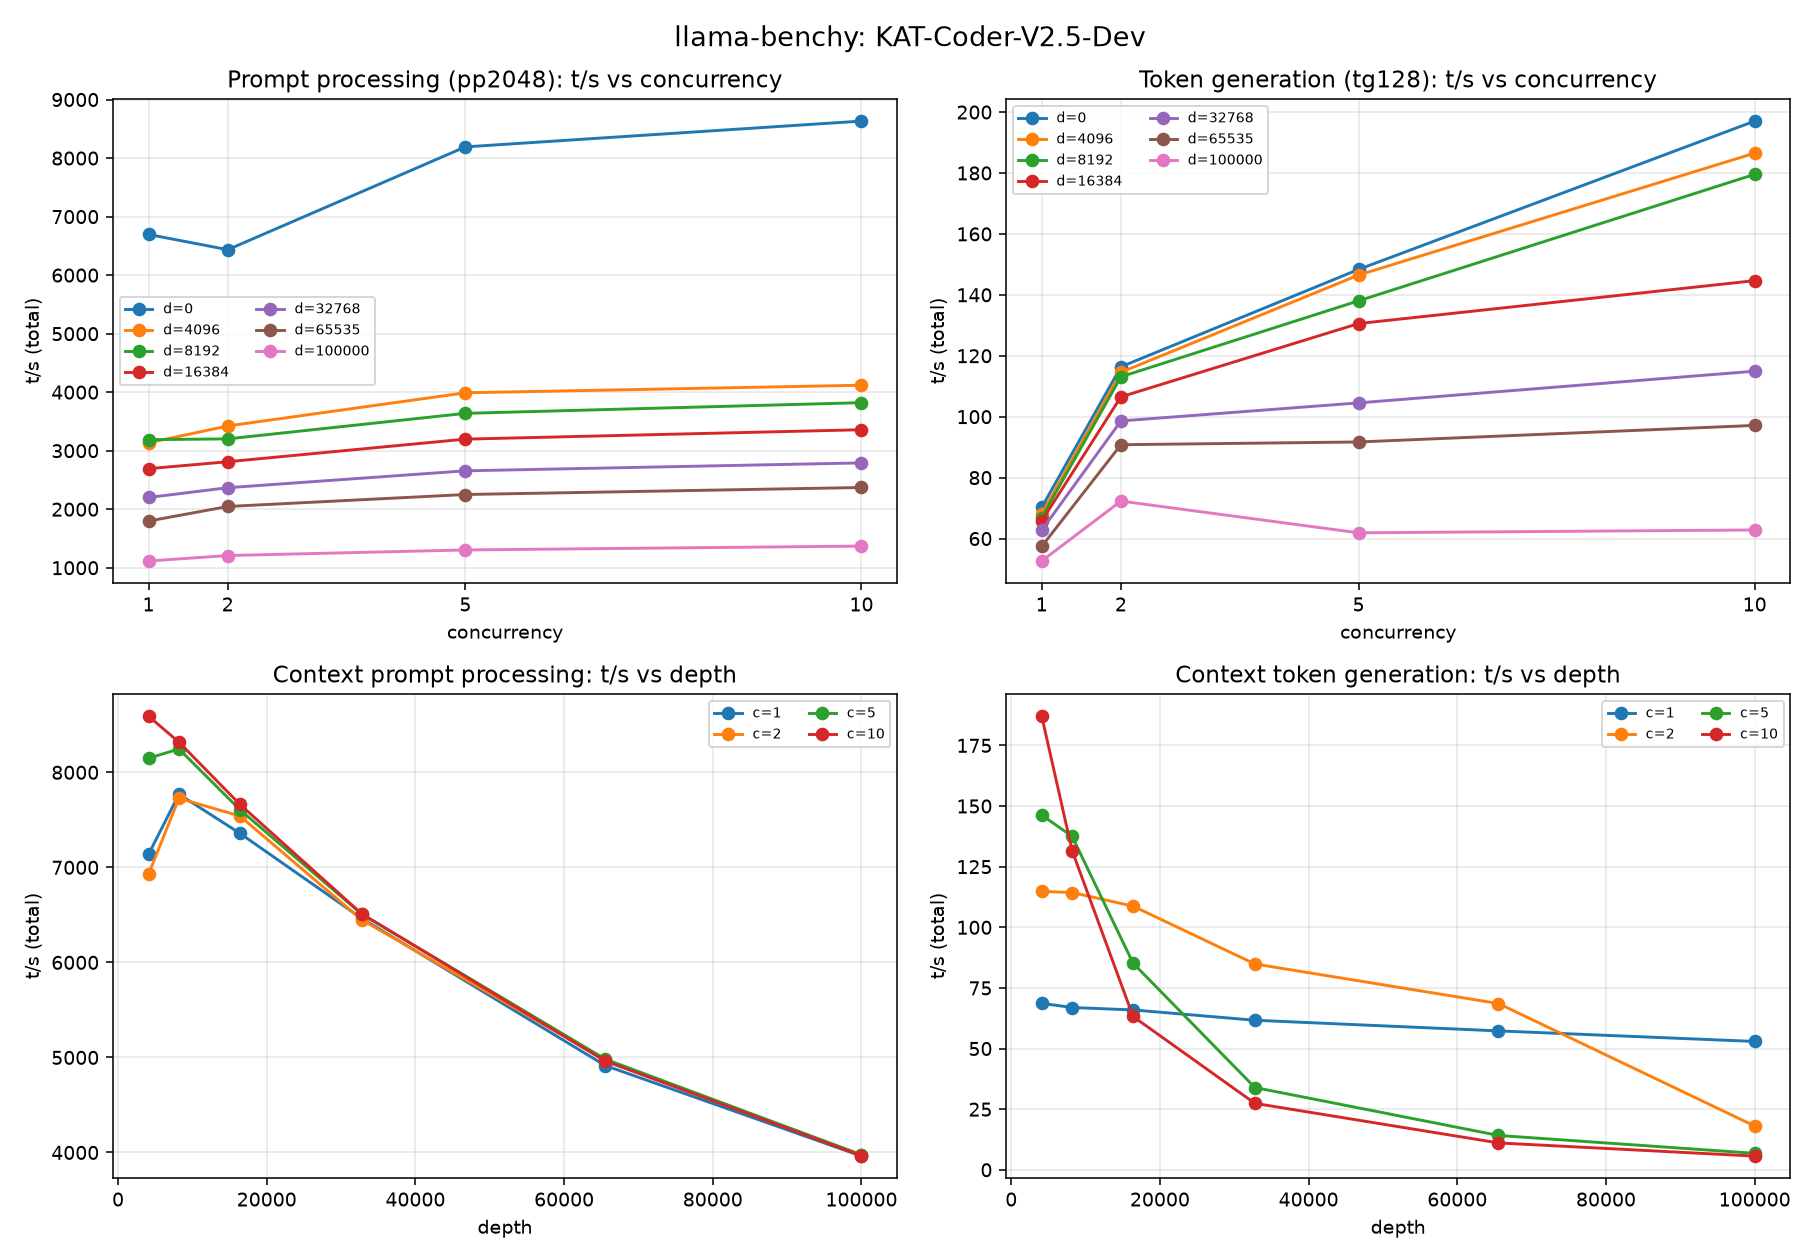
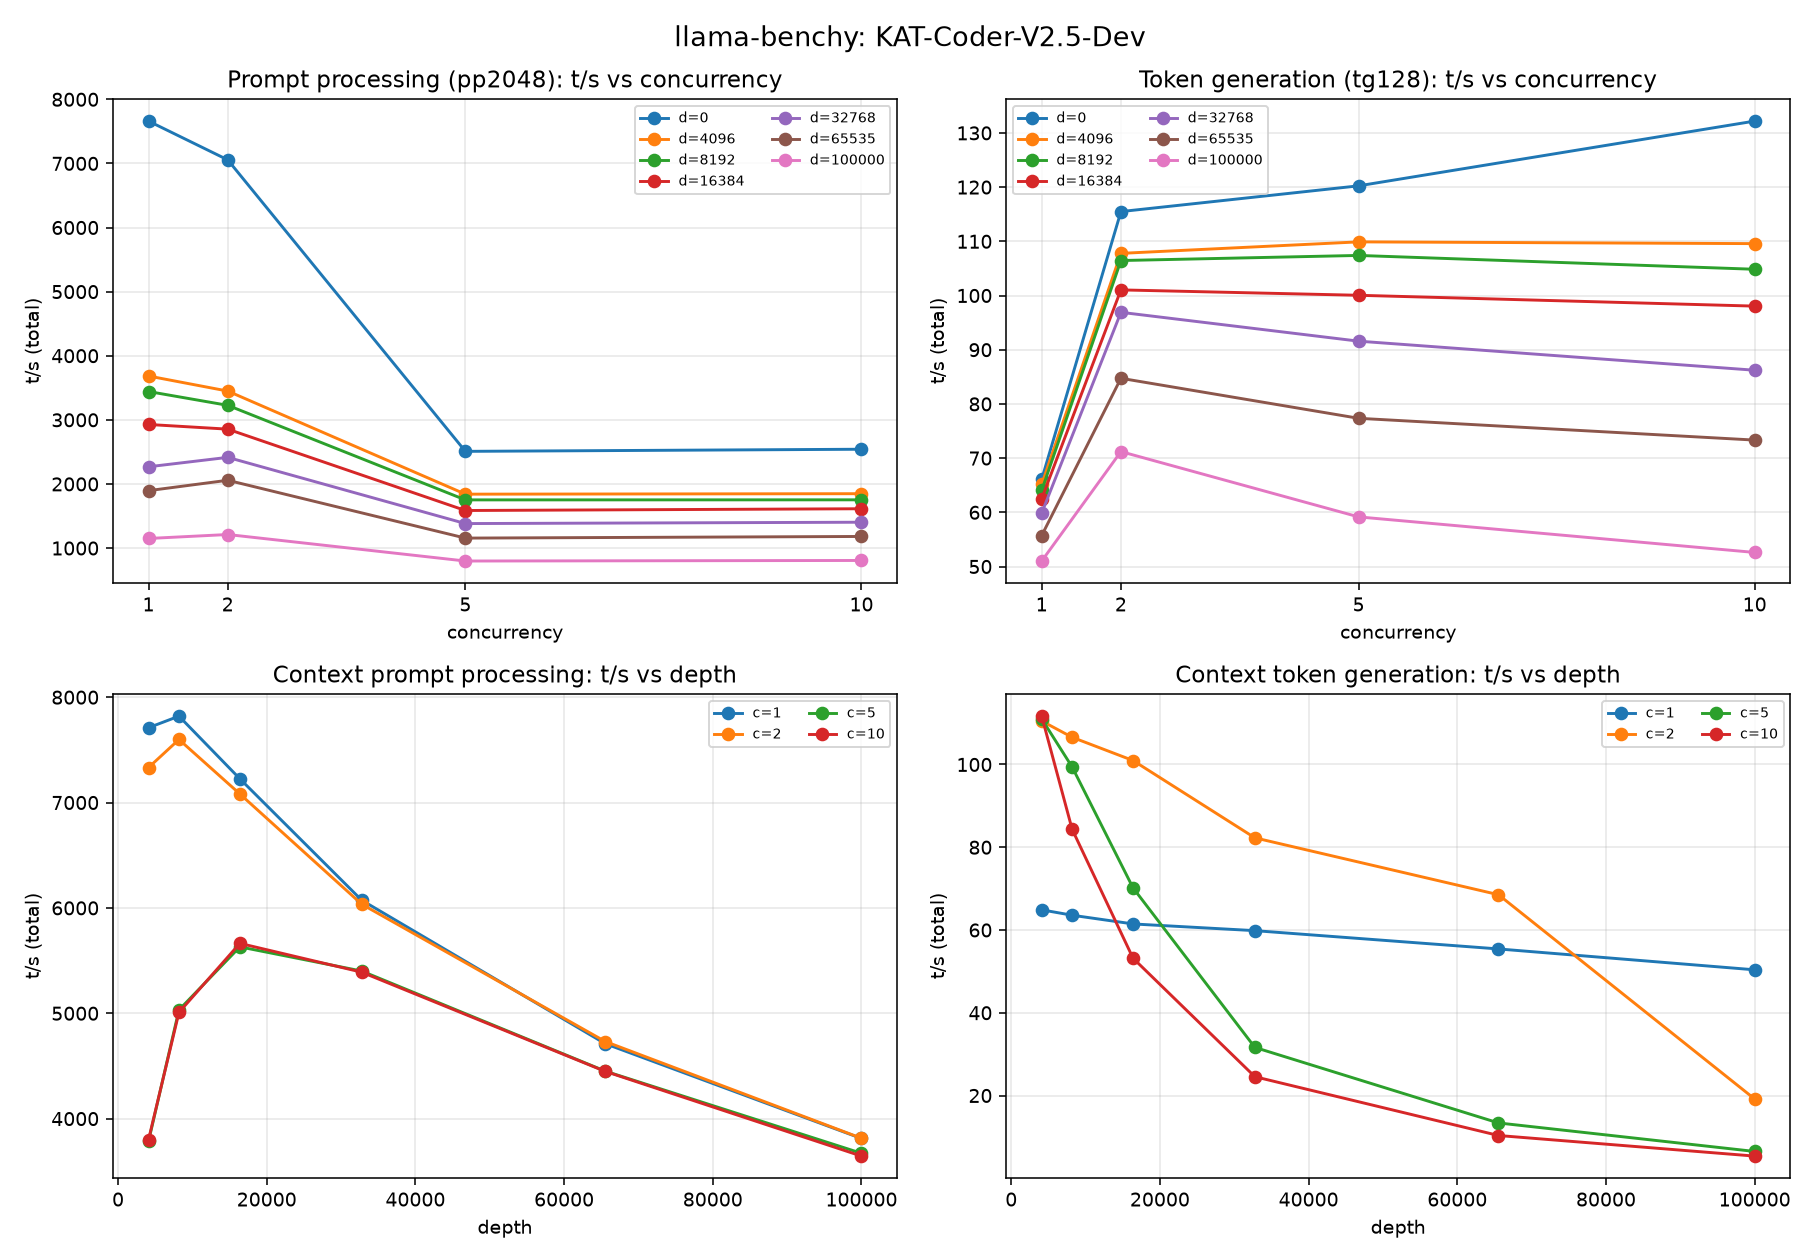
better answers

diff --git a/benchmarks/README.md b/benchmarks/README.md
@@ -32,18 +32,18 @@ uvx --with pandas --with matplotlib python scripts/chart_benchy.py \
 
 | Depth | pp t/s | tg t/s | ttfr (ms) |
 |---:|---:|---:|---:|
-| 0 | 6 695 | 70 | 363 |
-| 4 096 | 3 134 | 68 | 704 |
-| 8 192 | 3 188 | 67 | 692 |
-| 16 384 | 2 693 | 66 | 813 |
-| 32 768 | 2 201 | 63 | 983 |
-| 65 535 | 1 798 | 57 | 1 194 |
-| 100 000 | 1 115 | 53 | 1 887 |
+| 0 | 7 660 | 66 | 354 |
+| 4 096 | 3 684 | 65 | 637 |
+| 8 192 | 3 442 | 64 | 676 |
+| 16 384 | 2 928 | 63 | 781 |
+| 32 768 | 2 268 | 60 | 988 |
+| 65 535 | 1 896 | 56 | 1 162 |
+| 100 000 | 1 150 | 51 | 1 863 |
 
 ### Real-life expectations
 
-- **~52–70 tokens/s** sustained generation per interactive coding session (drops with context depth).
-- **Sub-second prefill** for prompts up to ~8k context; ~700 ms ttfr at 8k, rising to ~1.9 s at 100k.
-- Concurrency > 1 grows total throughput but drops per-request speed — **stay at c=1 for interactive coding**. Scale users by adding replicas, not by raising concurrency on one process.
+- **~51–66 tokens/s** sustained generation per interactive coding session (drops with context depth). Thinking mode is on by default, so visible-output latency is higher than raw ttfr suggests — reasoning tokens precede the first user-visible token.
+- **Sub-second prefill** for prompts up to ~32k context; ~680 ms ttfr at 8k, rising to ~1.9 s at 100k.
+- Concurrency > 1 now degrades aggregate throughput sharply under thinking mode (prefill collapses ~50–70% at c5/c10) — **stay at c=1 for interactive coding**. Scale users by adding replicas, not by raising concurrency on one process.
 
 See the project [README](../README.md) for the exact `llama-benchy` command used to produce these numbers.
